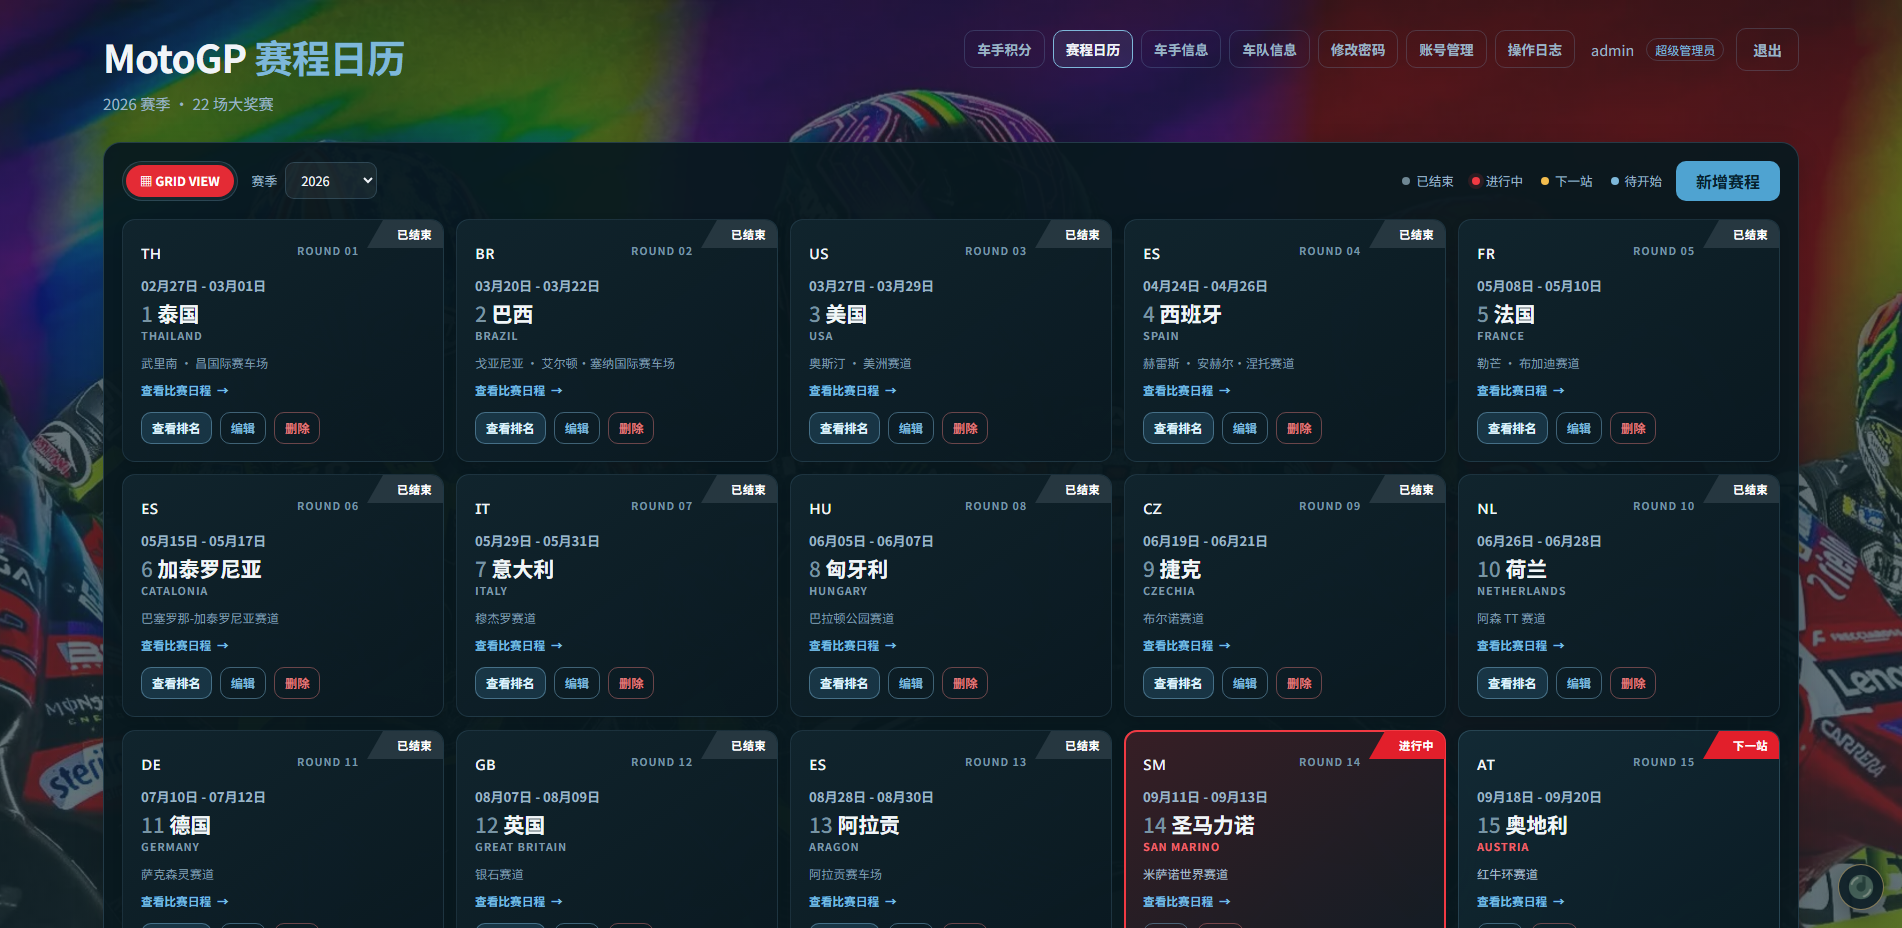
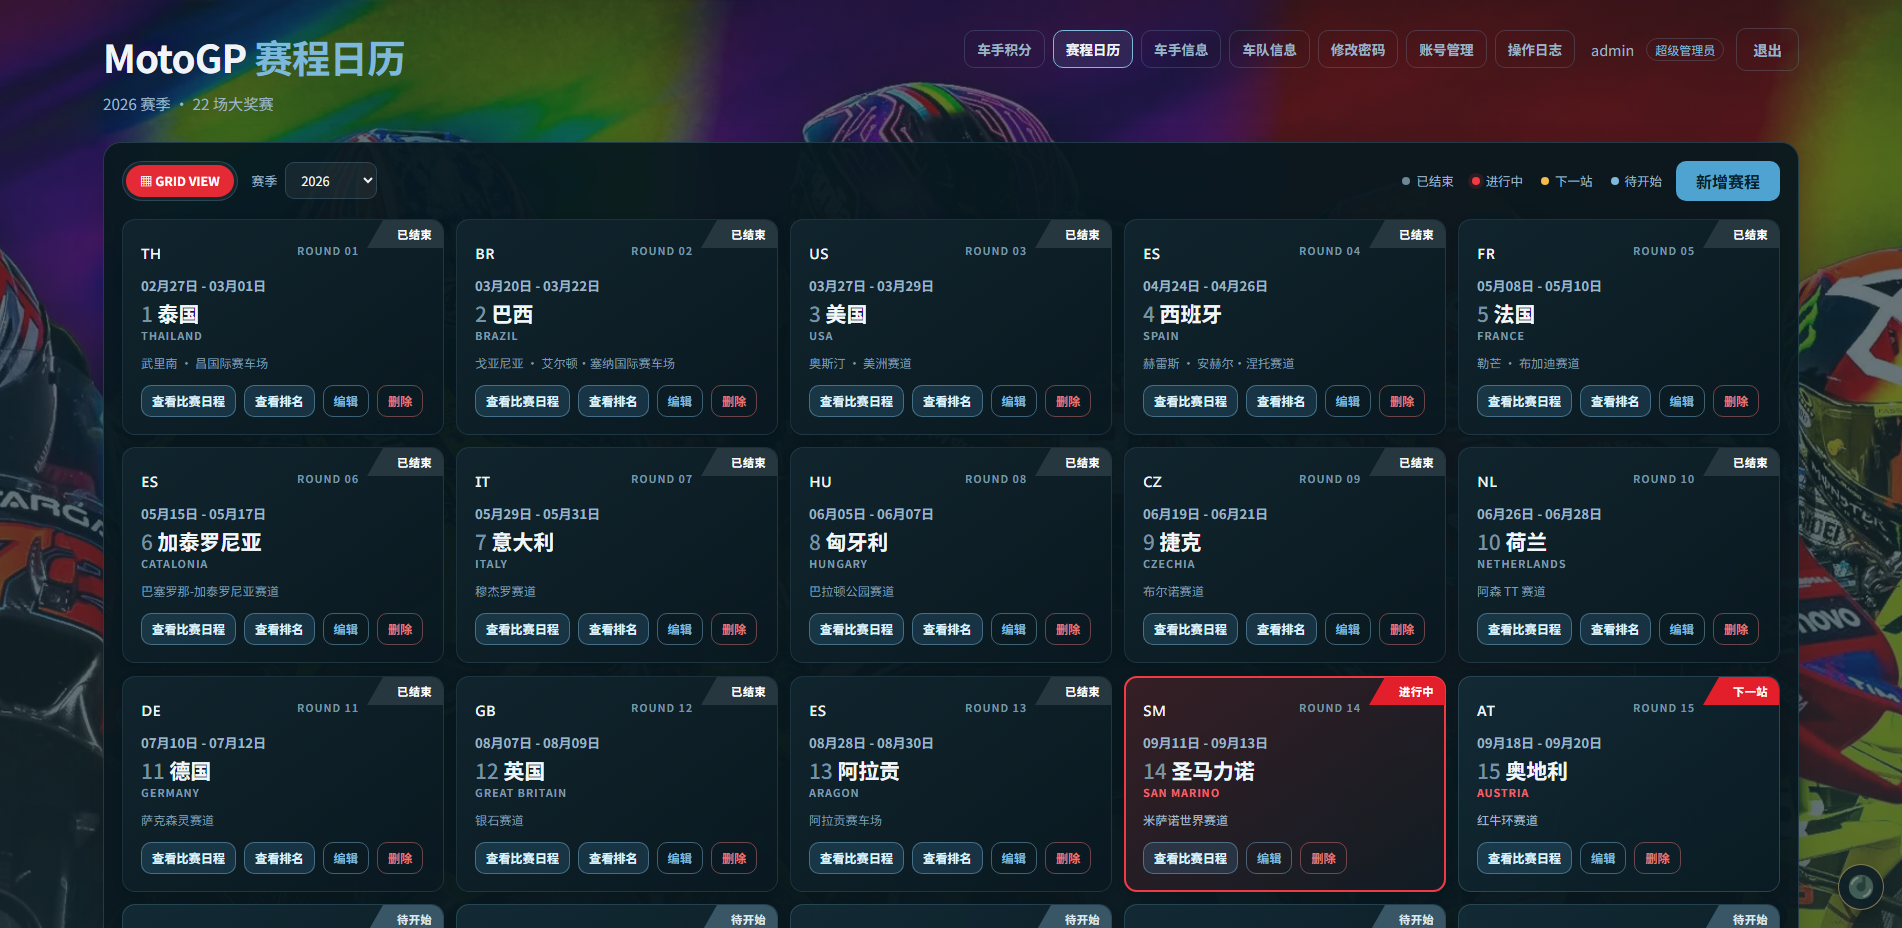
ui: convert race schedule link to action button

diff --git a/frontend/calendar.html b/frontend/calendar.html
@@ -256,6 +256,7 @@
       const statuses = getStatuses(events);
       grid.innerHTML = events.map((event, index) => {
         const status = statuses[index];
+        const scheduleAction = `<button type="button" class="btn-result" data-view-schedule="${event.id}">查看比赛日程</button>`;
         const resultAction = status.key === "finished"
           ? `<button type="button" class="btn-result" data-view-results="${event.id}">查看排名</button>`
           : "";
@@ -264,7 +265,7 @@
             <button type="button" class="btn-danger" data-delete-race="${event.id}">删除</button>` : "";
         const actions = `
           <div class="race-card-actions">
-            ${resultAction}${adminActions}
+            ${scheduleAction}${resultAction}${adminActions}
           </div>`;
         return `
           <article class="race-card ${status.key}" data-view-schedule="${event.id}" tabindex="0"
@@ -278,7 +279,6 @@
             <h2><span>${event.round_number}</span> ${escapeHtml(event.country)}</h2>
             <div class="race-country-en">${escapeHtml(event.country_en)}</div>
             <p class="race-circuit">${escapeHtml(event.circuit)}</p>
-            <span class="race-card-schedule-hint">查看比赛日程 <b>→</b></span>
             ${actions}
           </article>`;
       }).join("");

diff --git a/frontend/assets/css/common.css b/frontend/assets/css/common.css
@@ -351,25 +351,6 @@ body {
   font-size: 0.76rem;
 }
 
-.race-card-schedule-hint {
-  display: inline-flex;
-  align-items: center;
-  gap: 6px;
-  width: max-content;
-  margin-top: 10px;
-  color: #75bce2;
-  font-size: 0.73rem;
-  font-weight: 600;
-}
-
-.race-card-schedule-hint b {
-  transition: transform 0.16s ease;
-}
-
-.race-card:hover .race-card-schedule-hint b {
-  transform: translateX(3px);
-}
-
 .btn-result {
   color: #dff4ff;
   background: rgba(79, 163, 209, 0.18);
